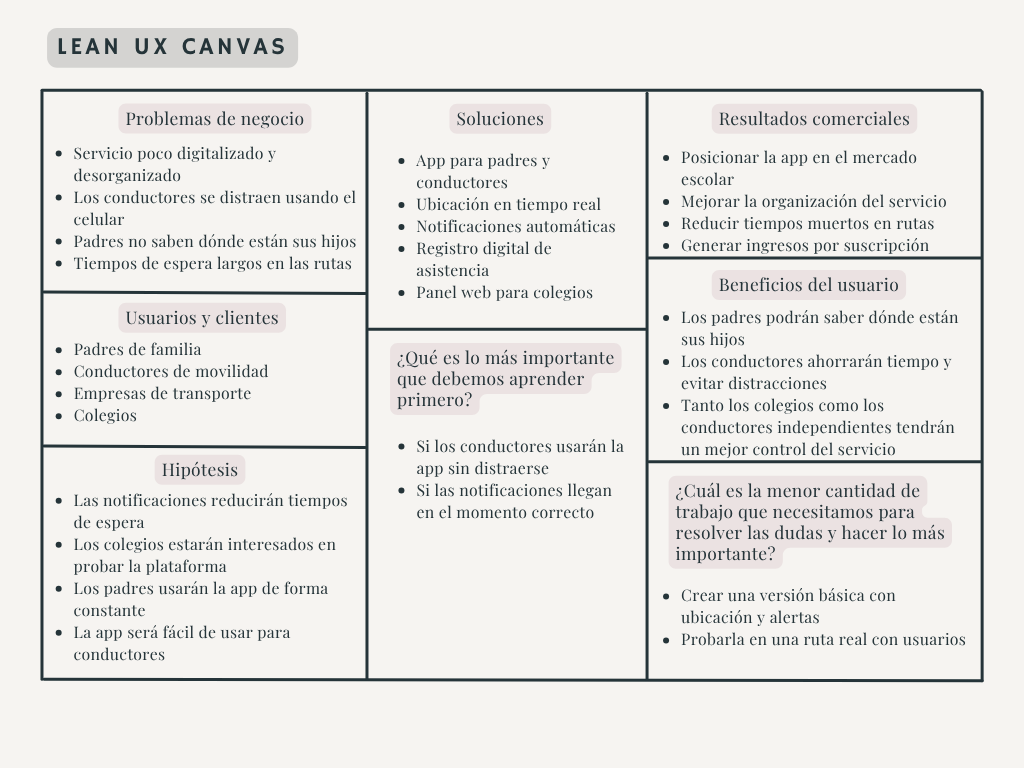
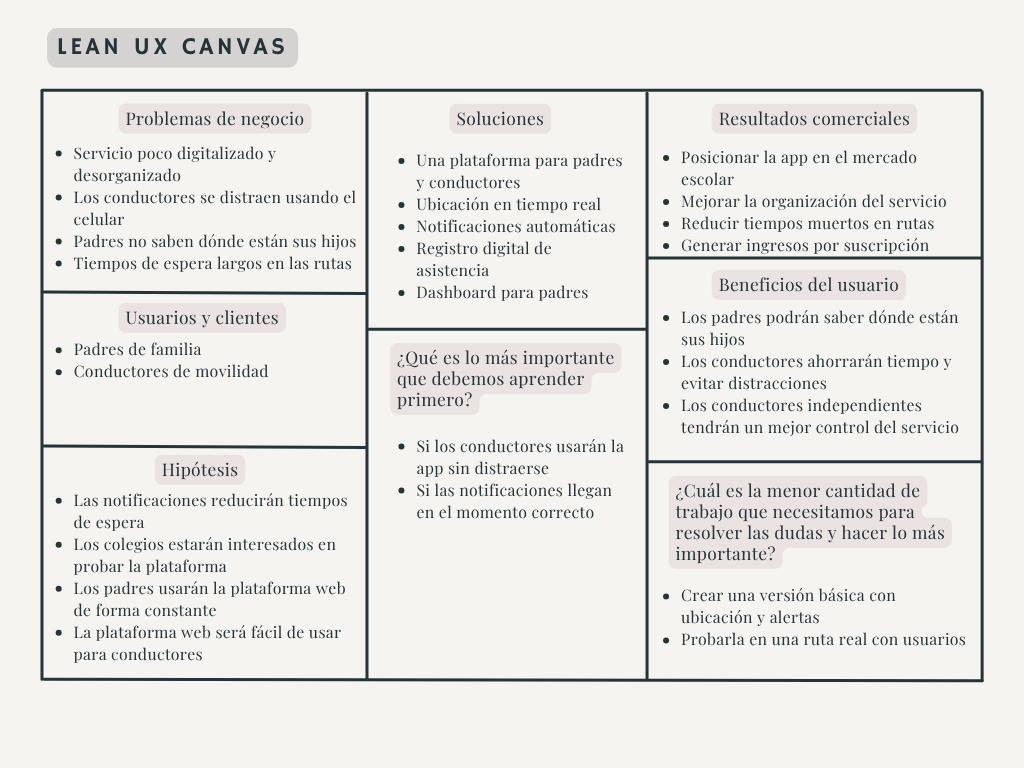
fix(chapter-1): apply general corrections and formatting

diff --git a/docs/05-chapter-1.md b/docs/05-chapter-1.md
@@ -25,6 +25,92 @@ Convertirnos en la plataforma líder y el estándar de seguridad en el transport
   * **Innovación:** Mejoramos constantemente nuestra plataforma mediante el uso de tecnologías modernas que facilitan la experiencia de usuarios y conductores.
 
 ### **1.1.2. Team Member Profiles**
+
+<table width="100%">
+  <tbody>
+    <tr>
+      <td width="30%" align="center" valign="middle">
+        <img src="../assets/chapter-1/img/alonso-higa-image.jpg" alt="Foto de Alonso Higa" width="180" style="border-radius: 8px;">
+        <br>
+        <i></i>
+      </td>
+      <td width="70%" valign="top" style="padding-left: 20px;">
+        <h3>Alonso Enrique Higa Kohatsu</h3>
+        <p><b>Código de estudiante:</b> u202416276</p>
+        <p><b>Edad:</b> 19 años</p>
+        <p><b>Carrera:</b> Ingeniería de Software</p>
+        <br>
+        <p><b>Sobre mí:</b></p>
+        <p>Me apasiona la tecnología y aprender cosas nuevas. Tengo conocimientos en C++ y un poco de Python y actualmente estoy enfocado en el aprendizaje de desarrollo web con Spring Boot. Me considero una persona curiosa, en constante aprendizaje y firmemente comprometido con el logro de mis objetivos profesionales y personales.</p>
+      </td>
+    </tr>
+    <tr>
+      <td width="30%" align="center" valign="middle">
+        <img src="" alt="Foto de " width="180" style="border-radius: 8px;">
+        <br>
+        <i></i>
+      </td>
+      <td width="70%" valign="top" style="padding-left: 20px;">
+        <h3>Nombre</h3>
+        <p><b>Código de estudiante:</b> </p>
+        <p><b>Edad:</b> </p>
+        <p><b>Carrera:</b> </p>
+        <br>
+        <p><b>Sobre mí:</b></p>
+        <p></p>
+      </td>
+    </tr>
+    <tr>
+      <td width="30%" align="center" valign="middle">
+        <img src="" alt="Foto de " width="180" style="border-radius: 8px;">
+        <br>
+        <i></i>
+      </td>
+      <td width="70%" valign="top" style="padding-left: 20px;">
+        <h3>Nombre</h3>
+        <p><b>Código de estudiante:</b> </p>
+        <p><b>Edad:</b> </p>
+        <p><b>Carrera:</b> </p>
+        <br>
+        <p><b>Sobre mí:</b></p>
+        <p></p>
+      </td>
+    </tr>
+    <tr>
+      <td width="30%" align="center" valign="middle">
+        <img src="" alt="Foto de " width="180" style="border-radius: 8px;">
+        <br>
+        <i></i>
+      </td>
+      <td width="70%" valign="top" style="padding-left: 20px;">
+        <h3>Nombre</h3>
+        <p><b>Código de estudiante:</b> </p>
+        <p><b>Edad:</b> </p>
+        <p><b>Carrera:</b> </p>
+        <br>
+        <p><b>Sobre mí:</b></p>
+        <p></p>
+      </td>
+    </tr>
+    <tr>
+      <td width="30%" align="center" valign="middle">
+        <img src="" alt="Foto de " width="180" style="border-radius: 8px;">
+        <br>
+        <i></i>
+      </td>
+      <td width="70%" valign="top" style="padding-left: 20px;">
+        <h3>Nombre</h3>
+        <p><b>Código de estudiante:</b> </p>
+        <p><b>Edad:</b> </p>
+        <p><b>Carrera:</b> </p>
+        <br>
+        <p><b>Sobre mí:</b></p>
+        <p></p>
+      </td>
+    </tr>
+  </tbody>
+</table>
+
 ## **1.2. Solution Profile**
 ### **1.2.1 Background and Problem Statement**
 El servicio de movilidad escolar en el Perú se ha caracterizado históricamente por un alto nivel de informalidad y la ausencia de estándares tecnológicos. Las familias confían el traslado de sus hijos a terceros basándose en la recomendación de otro padre, pero carecen de una plataforma dedicada que profesionalice el servicio y les brinde visibilidad durante los trayectos. Al no existir un sistema de seguimiento en tiempo real, los padres de familia experimentan una constante incertidumbre, desconociendo si los estudiantes abordaron la unidad de forma segura o si llegaron a su destino.
@@ -56,7 +142,7 @@ En este contexto, la problemática principal que buscamos afrontar es la falta d
   Esto genera más gasto de tiempo y combustible para los conductores y para los padres involucra una preocupación constante y tiempo perdido esperando sin información clara.
 ### **1.2.2 Lean UX Process**
 #### **1.2.2.1. Lean UX Problem Statements**
-Los servicios de movilidad escolar en el Perú, sobre todo los que son manejados por conductores independientes o pequeñas empresas, todavía tienen poco uso de tecnología para controlar y dar seguimiento a los trayectos diarios, de igual manera pasa con colegios que tienen su propia movilidad. Esto afecta directamente la tranquilidad de los padres, ya que muchas veces no saben con certeza dónde se encuentran sus hijos y también, complica el trabajo de los conductores.
+Los servicios de movilidad escolar en el Perú, sobre todo los que son manejados por conductores independientes o pequeñas empresas, todavía tienen poco uso de tecnología para controlar y dar seguimiento a los trayectos diarios. Esto afecta directamente la tranquilidad de los padres, ya que muchas veces no saben con certeza dónde se encuentran sus hijos y también, complica el trabajo de los conductores.
 
 Actualmente, la comunicación se basa en llamadas o mensajes y el control de la asistencia suele hacerse de forma manual, haciendolo propenso a un posible error. Esto puede generar confusión, retrasos y poca coordinación cuando ocurre algún imprevisto durante el recorrido, ya sea si un padre se olvido de notificar que su hijo no iba a asistir o que algún estudiante se demore más de lo previsto.
 
@@ -72,7 +158,7 @@ De esta manera, buscamos mejorar la organización del servicio y brindar mayor t
 **Business Outcomes**
 * Establecer a MoviSafe como la herramienta tecnológica estándar para el transporte escolar en Lima Metropolitana.
 * Aumentar la retención de los conductores afiliados al demostrarles ahorro en tiempo y combustible.
-* Generar ingresos recurrentes mediante un modelo SaaS dirigido a empresas de transporte, colegios y para conductores independientes.
+* Generar ingresos recurrentes mediante un modelo SaaS dirigido a empresas de transporte y para conductores independientes.
 * Fomentar la formalización y profesionalización del sector de movilidad escolar.
 
 **User Benefits**
@@ -82,9 +168,6 @@ De esta manera, buscamos mejorar la organización del servicio y brindar mayor t
 * **Conductores** 
   
   Ahorrar tiempo en cada parada y reducir el consumo de combustible al evitar esperas innecesarias y reducir sus tareas manuales de responder llamadas o mensajes.
-* **Colegios** 
-  
-  Ofrecer un valor agregado de alta seguridad a su comunidad educativa, mostrando que no solo cuidan a sus estudiantes dentro, sino que también fuera de la institución.
 
 **Assumptions**
 * Se cree que los padres de familia tienen una necesidad urgente de visibilidad y control sobre el transporte escolar.
@@ -92,7 +175,7 @@ De esta manera, buscamos mejorar la organización del servicio y brindar mayor t
 * Nuestros clientes iniciales son conductores independientes y padres de familia de colegios privados que buscan modernizar su servicio.
 * Lo que un padre quiere de nuestro servicio es la tranquilidad y lo que espera el conductor es la eficiencia y reducción de tareas.
 * Vamos a adquirir a nuestros primeros clientes a través de alianzas con Asociaciones de Padres de Familia y recomendaciones boca a boca entre conductores de una misma zona.
-* Haremos dinero a través de planes de suscripción mensual pagados por el conductor independiente, la empresa de transportes o el colegio.
+* Haremos dinero a través de planes de suscripción mensual pagados por el conductor independiente o la empresa de transportes.
 * Nuestra competencia principal actual son los métodos informales como son los grupos de WhatsApp y algunas plataformas genéricas de rastreo GPS vehicular.
 * Nuestro mayor riesgo es la resistencia al cambio por parte de conductores mayores o la pérdida de señal GPS/Internet en ciertas zonas urbanas.
 
@@ -118,18 +201,23 @@ De esta manera, buscamos mejorar la organización del servicio y brindar mayor t
 #### **1.2.2.3. Lean UX Hypothesis Statements**
 * Creemos que implementar alertas automáticas de proximidad podrá ayudar a los conductores y a los padres a tener un mejor control del recorrido, reduciendo los tiempos de espera y la necesidad de comunicarse constantemente. Se podrá saber que funciona sí el tiempo de parada se reduce a menos de 2 minutos y las llamadas o mensajes bajan en un 80%.
 
-* Creemos que desarrollar un dashboard web para los colegios permitirá tener un mejor control de sus movilidades y de las rutas que realizan. Sabremos que funciona si al menos 2 instituciones educativas aceptan probar la plataforma durante el primer trimestre.
+* Creemos que desarrollar un dashboard web para los padres de familia permitirá tener un mejor control de la movilidad y de las rutas que realizan. Sabremos que funciona si al menos 1 conductores independientes aceptan probar la plataforma durante el primer trimestre.
 
 * Creemos que contar con un registro digital automático de asistencia dará mayor tranquilidad a los padres, ya que podrán saber si sus hijos subieron o llegaron correctamente. Sabremos que funciona si la satisfacción de los usuarios y el uso diario de la aplicación supera el 80% en el primer mes.
 
 * Creemos que diseñar una interfaz simple y fácil de usar para el conductor reducirá distracciones y facilitará su uso durante el trabajo. Sabremos que funciona si el 90% de los conductores considera que la aplicación es intuitiva y no afecta su atención al manejar.
 #### **1.2.2.4. Lean UX Canvas**
 ![Lean UX Canvas](../assets/chapter-1/img/lean-ux-canvas.png)
+
+Mediante el Lean UX Canvas de KidWay permite identificar de forma clara los principales problemas del servicio de movilidad escolar, destacando la falta de digitalización como el eje central. Esto se traduce en rutas desorganizadas, tiempos de espera innecesarios y situaciones de riesgo, ya que los conductores deben usar el celular mientras manejan para comunicarse con los padres. Ante esta situación, se plantea una solución basada en una plataforma web dirigida a padres y conductores, junto con un dashboard para padres de familia, que permita conocer la ubicación en tiempo real y recibir notificaciones automáticas sin necesidad de interacción constante.
+
+A partir de esta propuesta, se espera mejorar la organización del servicio, reducir las distracciones al volante y brindar mayor tranquilidad a las familias. Además, se considera viable un modelo de ingresos por suscripción a largo plazo. Se plantea desarrollar un MVP enfocado en funciones clave como la ubicación en tiempo real y las alertas de proximidad, el cual será probado en una ruta real para validar su utilidad y comprobar si realmente mejora la experiencia tanto para conductores como para padres.
+
 ## **1.3. Target Segments**
 ### Segmento #1 Conductores Independientes
 * **Aspectos demográficos**
   * **Sexo:** Masculino y femenino
-  * **Edades:** Entre 35 y 60 años
+  * **Edades:** Entre 20 y 60 años
   * **Nivel socioeconómico:** Clases B y C
 * **Aspectos geográficos**
   * **Nacionalidad:** Peruana o Venezolana
@@ -145,7 +233,7 @@ De esta manera, buscamos mejorar la organización del servicio y brindar mayor t
 ### Segmento #2 Empresas dedicadas a movilidad escolar
 * **Aspectos demográficos**
   * **Perfil:** Dueños o administradores de flotas pequeñas
-  * **Edades:** Entre 40 y 60 años
+  * **Edades:** Entre 30 y 60 años
   * **Nivel socioeconómico:** Clases A y B
 * **Aspectos geográficos**
   * **Nacionalidad:** Peruana o Venezolana
@@ -157,16 +245,3 @@ De esta manera, buscamos mejorar la organización del servicio y brindar mayor t
   * Necesitan dashboards administrativos para monitorear a sus choferes en tiempo real y justificar la calidad de su servicio
 * **Información estadística de sustento**
   * Para las pequeñas y medianas empresas del sector transporte, no contar con herramientas digitales hace que su trabajo sea más lento y costoso. Incorporar soluciones tecnológicas puede ayudar a organizar mejor sus operaciones y reducir gastos innecesarios (Ministerio de Transportes y Comunicaciones, s.f.). De esta manera, las empresas de movilidad escolar necesitan apoyarse en herramientas que les permitan monitorear sus unidades, mejorar sus tiempos y ser más competitivas en el mercado.
-### Segmento #3 Colegios con movilidad propia
-* **Aspectos demográficos**
-  * **Perfil:** Directores o jefes de logística en instituciones educativas privadas
-  * **Nivel socioeconómico:** Clases A y B
-* **Aspectos geográficos**
-  * **Zona geográfica:** Distritos urbanos de nivel socioeconómico medio alto y alto
-  * **Departamento:** Lima Metropolitana
-* **Aspectos psicográficos**
-  * Buscan brindar una experiencia de máxima seguridad para justificar el costo de sus pensiones y servicios adicionales
-  * Buscan evitar problemas legales y cuidar su reputación, por lo que necesitan llevar un registro claro de la asistencia de los estudiantes.
-  * Valoran plataformas que se puedan integrar a la gestión institucional del colegio.
-* **Información estadística de sustento**
-  * Actualmente, la inseguridad ciudadana es un problema que afecta directamente a las instituciones educativas en Lima Metropolitana. Por una parte, el aumento de extorsiones y por otra parte, los riesgos en las calles ha llevado a que muchos padres acompañen o supervisen de cerca los traslados de sus hijos y que también exijan a los colegios mayores medidas de seguridad (Educación al Futuro, s.f.). En este contexto, contar con un servicio de movilidad monitoreado con tecnología se vuelve clave para brindar mayor tranquilidad a las familias y generar confianza en las instituciones.
